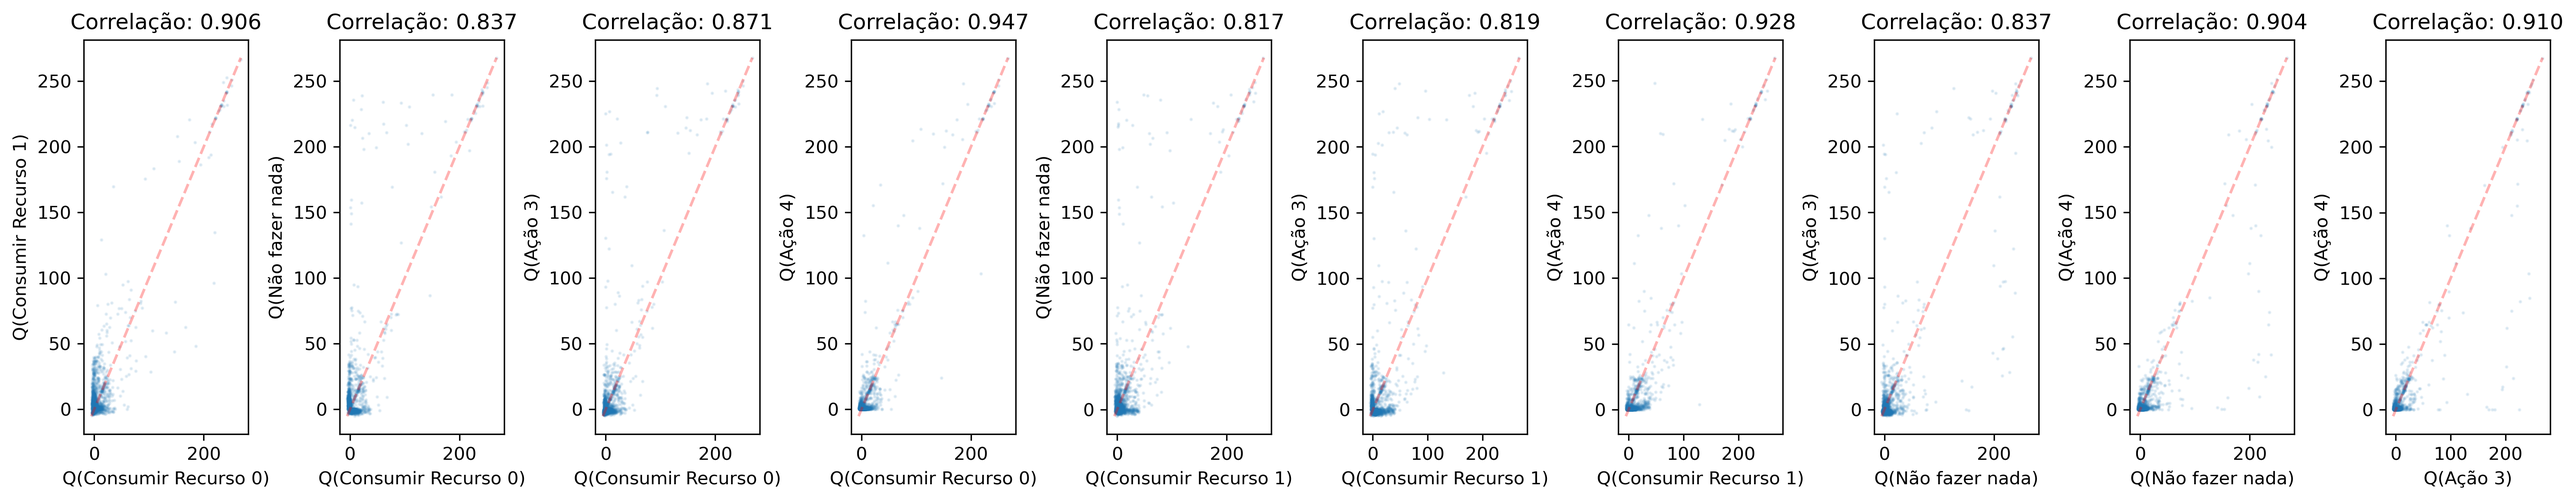
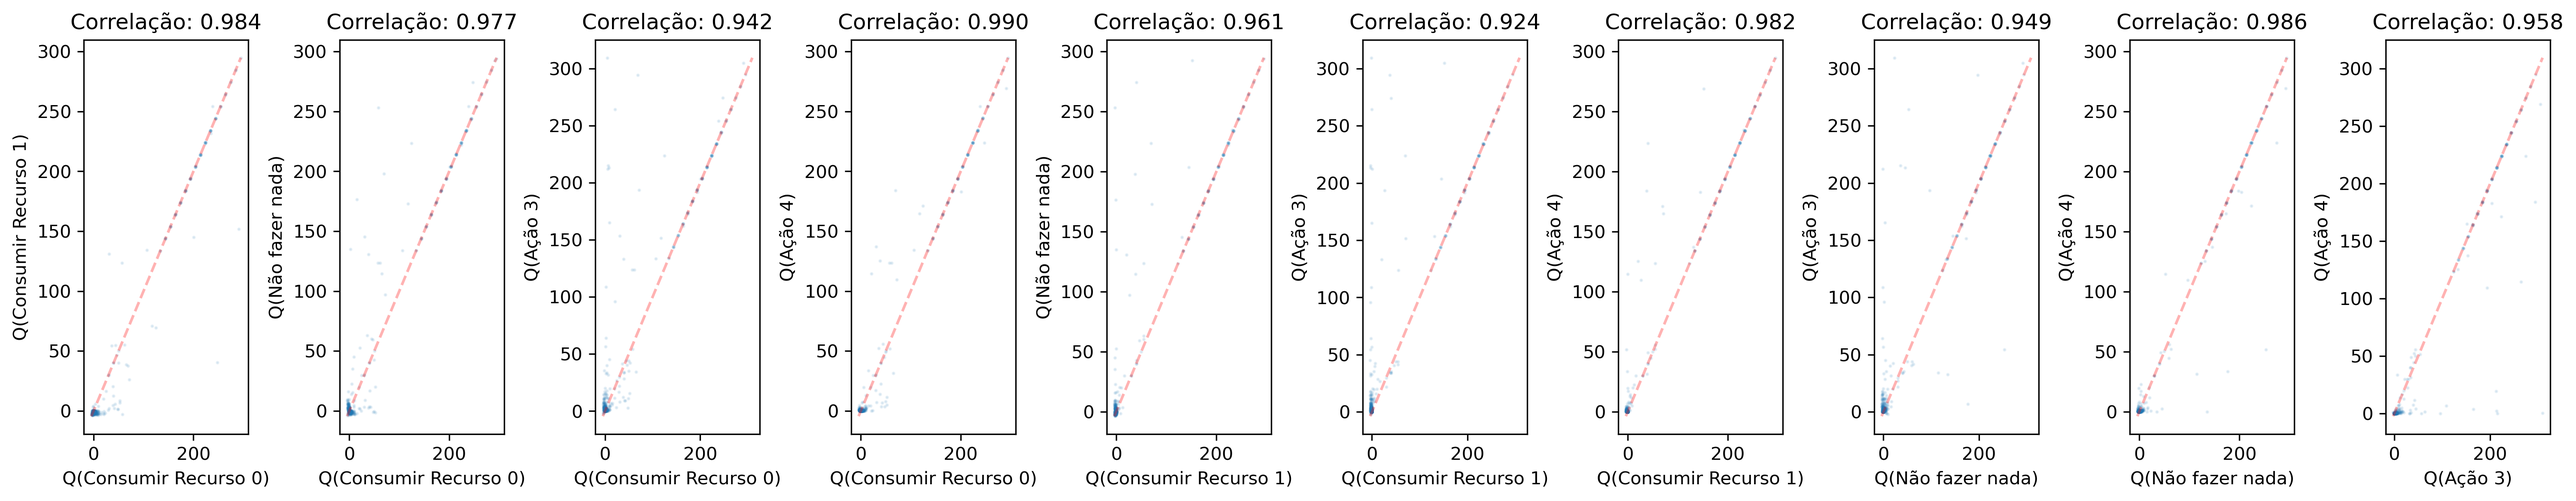
🚧 Adding new plot functions to understand the behavior of the agent

diff --git a/src/scripts/visualize_experiment.py b/src/scripts/visualize_experiment.py
@@ -5,6 +5,46 @@ import numpy as np
 import matplotlib.pyplot as plt
 from src.scripts.visualizer import load_and_visualize_qlearning_model
 
+# === Nova função para visualização vetorial colorida ===
+def plot_policy_quiver(policy_matrix, state_range=(-200, 200)):
+    H, W = policy_matrix.shape
+    real_s0 = np.linspace(state_range[0], state_range[1], W)
+    real_s1 = np.linspace(state_range[0], state_range[1], H)
+    X, Y = np.meshgrid(real_s0, real_s1)
+
+    dx = np.zeros_like(policy_matrix, dtype=float)
+    dy = np.zeros_like(policy_matrix, dtype=float)
+    colors = np.empty(policy_matrix.shape, dtype=object)
+
+    dx[policy_matrix == 0] = +1
+    colors[policy_matrix == 0] = 'blue'
+
+    dy[policy_matrix == 1] = +1
+    colors[policy_matrix == 1] = 'green'
+
+    dx[policy_matrix == 2] = -1
+    colors[policy_matrix == 2] = 'red'
+
+    dy[policy_matrix == 3] = -1
+    colors[policy_matrix == 3] = 'orange'
+
+    colors[policy_matrix == 4] = 'lightgray'  # wait
+
+    plt.figure(figsize=(8, 8))
+    for action in range(5):
+        mask = (policy_matrix == action)
+        plt.quiver(X[mask], Y[mask], dx[mask], dy[mask], color=colors[mask], scale=20, angles='xy', label=f'Ação {action}')
+
+    plt.gca().invert_yaxis()
+    plt.title("Policy vector field (quiver plot)")
+    plt.xlabel("State 0 (Dimension 1)")
+    plt.ylabel("State 1 (Dimension 2)")
+    plt.legend()
+    plt.grid(True)
+    plt.tight_layout()
+    plt.show()
+
+
 # === Parâmetros ===
 max_val = 300.0
 model_path = "models/qlearning_model_base_drive_n1_m1.pkl"  # Ajuste o caminho conforme necessário
@@ -23,106 +63,101 @@ visualizer = load_and_visualize_qlearning_model(
 # === Exibir estatísticas adicionais se o visualizador foi criado com sucesso ===
 if visualizer:
     print("\n=== Estatísticas da Política ===")
-    
+
     # Política ótima (melhor ação) em cada estado
     policy = np.argmax(visualizer.q_table, axis=1)
-    
+
+    # Reestruturar a policy para um grid 2D, assumindo ambiente 2D
+    grid_size = int(np.sqrt(len(policy)))
+    policy_matrix = policy.reshape((grid_size, grid_size))
+
+    # Plotar o campo vetorial (quiver)
+    plot_policy_quiver(policy_matrix, state_range=(-200, 200))
+
     # Contagem de ações na política ótima
-    action_counts = np.bincount(policy, minlength=3)
+    action_counts = np.bincount(policy, minlength=5)
     total_states = len(policy)
-    
+
     for action_id, count in enumerate(action_counts):
         percentage = (count / total_states) * 100
         action_name = visualizer.action_names[action_id] if action_id < len(visualizer.action_names) else f"Ação {action_id}"
         print(f"  - {action_name}: {count} estados ({percentage:.1f}%)")
-    
+
     # Estatísticas de valores Q
     max_q_values = np.max(visualizer.q_table, axis=1)
     print(f"\n=== Estatísticas da Função Valor ===")
     print(f"  - Valor médio: {np.mean(max_q_values):.4f}")
     print(f"  - Valor máximo: {np.max(max_q_values):.4f}")
     print(f"  - Valor mínimo: {np.min(max_q_values):.4f}")
-    
+
     # Qualidade da política
     q_best = np.max(visualizer.q_table, axis=1)
     q_second_best = np.array([np.sort(row)[-2] if len(row) > 1 else row[0] for row in visualizer.q_table])
     q_gap = q_best - q_second_best
-    
+
     print(f"\n=== Qualidade da Política ===")
     print(f"  - Diferença média entre melhor e segunda melhor ação: {np.mean(q_gap):.4f}")
     print(f"  - Porcentagem de estados com diferença significativa (>0.1): {np.mean(q_gap > 0.1) * 100:.1f}%")
-    
-    # === NOVAS MÉTRICAS: Análise de recompensa por episódio ===
+
     try:
-        # Tentar carregar o histórico de treinamento (se disponível no modelo)
         with open(model_path, 'rb') as f:
             loaded_data = pickle.load(f)
-            
-        # Verificar se o histórico de recompensas existe no modelo carregado
+
         if isinstance(loaded_data, dict) and 'rewards_history' in loaded_data:
             rewards_history = loaded_data['rewards_history']
-            
+
             print(f"\n=== Análise de Recompensa por Episódio ===")
             print(f"  - Total de episódios: {len(rewards_history)}")
             print(f"  - Recompensa média: {np.mean(rewards_history):.4f}")
             print(f"  - Recompensa máxima: {np.max(rewards_history):.4f}")
             print(f"  - Recompensa mínima: {np.min(rewards_history):.4f}")
-            
-            # Média móvel para suavizar a curva
+
             window_size = min(50, len(rewards_history) // 10) if len(rewards_history) > 10 else 1
             moving_avg = np.convolve(rewards_history, np.ones(window_size)/window_size, mode='valid')
-            
-            # Plotar a curva de recompensa
+
             plt.figure(figsize=(10, 6))
             plt.plot(rewards_history, alpha=0.5, label='Recompensa por episódio')
             if len(moving_avg) > 1:
-                plt.plot(np.arange(len(moving_avg)) + window_size-1, moving_avg, 
-                        'r-', linewidth=2, label=f'Média móvel ({window_size} episódios)')
-            
+                plt.plot(np.arange(len(moving_avg)) + window_size-1, moving_avg, 'r-', linewidth=2, label=f'Média móvel ({window_size} eps)')
+
             plt.title('Recompensa durante o Treinamento')
             plt.xlabel('Episódio')
             plt.ylabel('Recompensa Total')
             plt.legend()
             plt.grid(True, linestyle='--', alpha=0.7)
-            
-            # Adicionar linha de tendência
+
             if len(rewards_history) > 1:
                 z = np.polyfit(range(len(rewards_history)), rewards_history, 1)
                 p = np.poly1d(z)
-                plt.plot(range(len(rewards_history)), p(range(len(rewards_history))), 
-                        "b--", linewidth=1, label=f'Tendência (m={z[0]:.4f})')
+                plt.plot(range(len(rewards_history)), p(range(len(rewards_history))), "b--", linewidth=1, label=f'Tendência (m={z[0]:.4f})')
                 plt.legend()
-                
-                # Mostrar informação sobre a convergência
+
                 last_window = rewards_history[-min(100, len(rewards_history) // 4):]
                 variance = np.var(last_window)
                 print(f"  - Variância nos últimos episódios: {variance:.4f}")
                 print(f"  - Inclinação da tendência: {z[0]:.6f}")
-                
-                # Avaliar convergência
+
                 if abs(z[0]) < 0.01 and variance < 1.0:
                     print("  - Status: O treinamento parece ter convergido")
                 elif abs(z[0]) > 0.05:
                     print("  - Status: O treinamento ainda estava em progresso ativo")
                 else:
                     print("  - Status: Convergência parcial")
-            
-            # Salvar o gráfico
+
             reward_plot_path = os.path.join(output_dir, "rewards_history.png")
             plt.savefig(reward_plot_path)
             print(f"  - Gráfico de recompensas salvo em: {reward_plot_path}")
-            
-            # Análise de desempenho por faixas de episódios
+
             if len(rewards_history) >= 100:
                 print(f"\n=== Progresso do Treinamento ===")
                 segments = min(5, len(rewards_history) // 100)
                 segment_size = len(rewards_history) // segments
-                
+
                 for i in range(segments):
                     start_idx = i * segment_size
                     end_idx = (i + 1) * segment_size if i < segments - 1 else len(rewards_history)
                     segment_rewards = rewards_history[start_idx:end_idx]
-                    
+
                     print(f"  - Episódios {start_idx+1}-{end_idx}: " + 
                           f"Média={np.mean(segment_rewards):.2f}, " +
                           f"Mediana={np.median(segment_rewards):.2f}, " +
@@ -131,12 +166,12 @@ if visualizer:
             print("\n=== Análise de Recompensa por Episódio ===")
             print("  - Histórico de recompensas não encontrado no modelo.")
             print("  - Verifique se o seu algoritmo de treinamento está salvando o histórico de recompensas.")
-    
+
     except Exception as e:
-        print(f"\n=== Análise de Recompensa por Episódio ===")
+        print("\n=== Análise de Recompensa por Episódio ===")
         print(f"  - Erro ao analisar histórico de recompensas: {str(e)}")
         print("  - Verifique se o formato do modelo é compatível com esta análise.")
-    
+
     print("\nVisualização concluída com sucesso!")
 else:
     print("Não foi possível criar o visualizador. Verifique os erros acima.")

diff --git a/src/scripts/clementine/experiment_qlearning.py b/src/scripts/clementine/experiment_qlearning.py
@@ -99,6 +99,22 @@ def evaluate_agent(agent, env, rewards, internal_state_dim=2, success_threshold=
         plt.show()
     except:
         print("⚠ Could not visualize the policy (state not 2D?)")
+    
+def collect_trajectory(agent, env, max_steps=500):
+    obs, _ = env.reset()
+    trajectory = [tuple(obs)]
+    done = False
+    steps = 0
+
+    while not done and steps < max_steps:
+        state_idx = agent.get_state_index(obs)
+        action = np.argmax(agent.q_table[state_idx])
+        obs, _, done, _, _ = env.step(action)
+        trajectory.append(tuple(obs))
+        steps += 1
+
+    return np.array(trajectory)
+
 
 # === Parameters for discretization ===
 n_bins = 50
@@ -151,5 +167,5 @@ print(f"Modelo salvo em: {model_filename}")
 
 # Continua com a avaliação
 env_eval = ClementineEnvironment(config_path=config_path, drive_type=drive_type, render_mode='human')
-evaluate_agent(agent, env_eval, rewards, internal_state_dim=2)
-agent.evaluate(env_eval, num_episodes=1, render=True)
+#evaluate_agent(agent, env_eval, rewards, internal_state_dim=2)
+#agent.evaluate(env_eval, num_episodes=1, render=True)

diff --git a/src/agents/q_learning.py b/src/agents/q_learning.py
@@ -60,19 +60,10 @@ class QLearning:
         # Converte os estados para índices
         state_idx = self._process_state(state)
         next_state_idx = self._process_state(next_state)
+
+        self.q_table[state_idx, action] += self.learning_rate * (reward + self.discount_factor * np.max(self.q_table[next_state_idx, :]) - self.q_table[state_idx, action])
+
         
-        # Calcula o Q-value atual
-        current_q = self.q_table[state_idx, action]
-        
-        # Calcula o target Q-value
-        if done:
-            target_q = reward
-        else:
-            max_next_q = np.max(self.q_table[next_state_idx])
-            target_q = reward + self.discount_factor * max_next_q
-        
-        # Atualiza o Q-value
-        self.q_table[state_idx, action] = current_q + self.learning_rate * (target_q - current_q)
     
     def decay_epsilon(self):
         """

diff --git a/src/gymnasium_env/envs/clementine.py b/src/gymnasium_env/envs/clementine.py
@@ -74,11 +74,16 @@ class ClementineEnvironment(gym.Env):
 
         # Initialize internal states with random values between 0 and 1
 # Modificar para garantir que _internal_states tenha o mesmo tamanho que self.drive._optimal_internal_states
-        self._internal_states = np.random.choice(
-						range(-self.size, self.size+1), 
-						size=len(self.drive._optimal_internal_states)
-				).astype(np.int32)        
+        # self._internal_states = np.random.choice(
+				# 		range(-self.size, self.size+1), 
+				# 		size=len(self.drive._optimal_internal_states)
+				# ).astype(np.int32)        
         # Initial drive
+        self._internal_states = np.zeros(
+					len(self.drive._optimal_internal_states), 
+					dtype=np.int32
+						)
+
         initial_drive = self.drive.compute_drive(self._internal_states)
         self.drive.update_drive(initial_drive)
                 

diff --git a/src/scripts/grid_world_2_resources/experiment_qlearning.py b/src/scripts/grid_world_2_resources/experiment_qlearning.py
@@ -157,3 +157,4 @@ env_eval = GridWorldEnv2Resources(config_path=config_path, drive_type=drive_type
 wrapped_env_eval = DiscretizeWrapper(env_eval, n_bins=n_bins, low=low, high=high)
 #agent.evaluate(wrapped_env_eval, num_episodes=1, render=True)
 evaluate_agent(agent, wrapped_env_eval, rewards, internal_state_dim=2)
+
